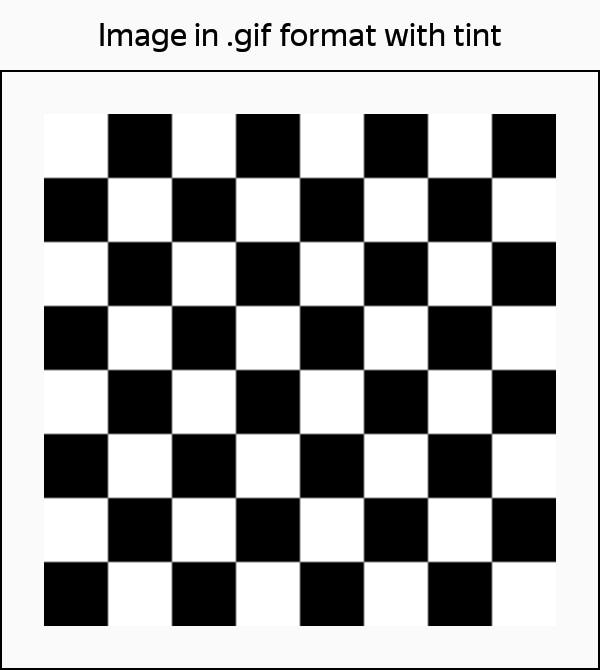
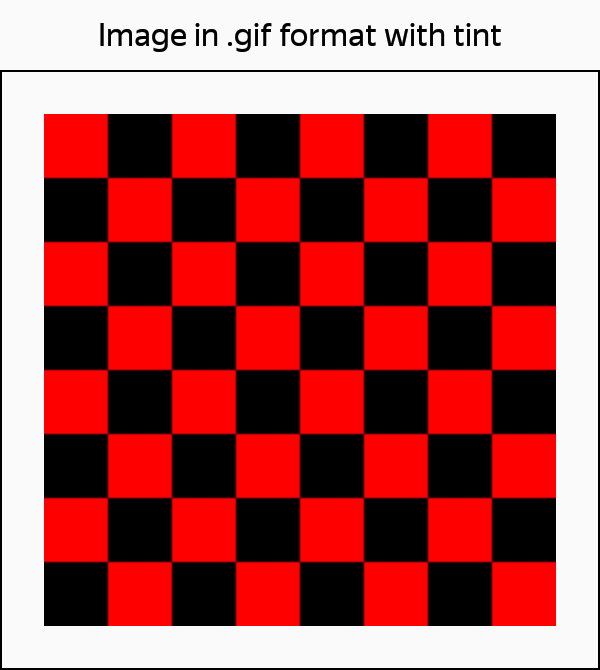
fix tint for asynchronously loaded images commit_hash:6174a4c0ca2ef15f469d8a979d9051ef019f16a1

diff --git a/client/android/div/src/test/java/com/yandex/div/core/view2/divs/DivImageBinderTest.kt b/client/android/div/src/test/java/com/yandex/div/core/view2/divs/DivImageBinderTest.kt
@@ -3,6 +3,7 @@ package com.yandex.div.core.view2.divs
 import android.graphics.Bitmap
 import android.graphics.Color
 import android.graphics.drawable.BitmapDrawable
+import android.graphics.drawable.ColorDrawable
 import android.net.Uri
 import com.yandex.div.core.asExpression
 import com.yandex.div.core.images.BitmapSource
@@ -231,6 +232,18 @@ class DivImageBinderTest : DivBinderTest() {
     }
 
     @Test
+    fun `tint color applied when drawable loaded`() {
+        val (view, _) = createTestDiv("with_action.json")
+        val divImage = createTestDiv(tintColor = "#ffffff")
+        val imageUrl = divImage.divValue.imageUrl?.evaluate(ExpressionResolver.EMPTY).toString()
+
+        binder.bindView(view, divImage, divView)
+        whenDrawableLoaded(imageUrl)
+
+        Assert.assertNotNull(view.colorFilter)
+    }
+
+    @Test
     fun `tint color applied to image after rebind`() {
         val (view, _) = createTestDiv("with_action.json")
         val divImage = createTestDiv(tintColor = "#ffffff")
@@ -269,6 +282,13 @@ class DivImageBinderTest : DivBinderTest() {
             on { bitmap } doReturn mock()
         }
         val cachedImage = DivCachedImage.Drawable(bitmapDrawable, BitmapSource.MEMORY)
+        imageDownloadCallbackCaptor.firstValue.onSuccess(cachedImage)
+    }
+
+    private fun whenDrawableLoaded(imageUrl: String) {
+        val imageDownloadCallbackCaptor = argumentCaptor<DivImageDownloadCallback>()
+        verify(imageLoader).loadImage(eq(imageUrl), imageDownloadCallbackCaptor.capture())
+        val cachedImage = DivCachedImage.Drawable(ColorDrawable(Color.WHITE), BitmapSource.MEMORY)
         imageDownloadCallbackCaptor.firstValue.onSuccess(cachedImage)
     }
 

diff --git a/client/android/div/src/main/java/com/yandex/div/core/view2/divs/DivImageBinder.kt b/client/android/div/src/main/java/com/yandex/div/core/view2/divs/DivImageBinder.kt
@@ -389,6 +389,7 @@ internal class DivImageBinder @Inject constructor(
                     applyLoadingFade(div, resolver, source, animationsEnabledController.isEnabled())
 
                     imageLoaded()
+                    applyTint(div.tintColor?.evaluate(resolver), div.tintMode.evaluate(resolver))
                     invalidate()
                 }
 
